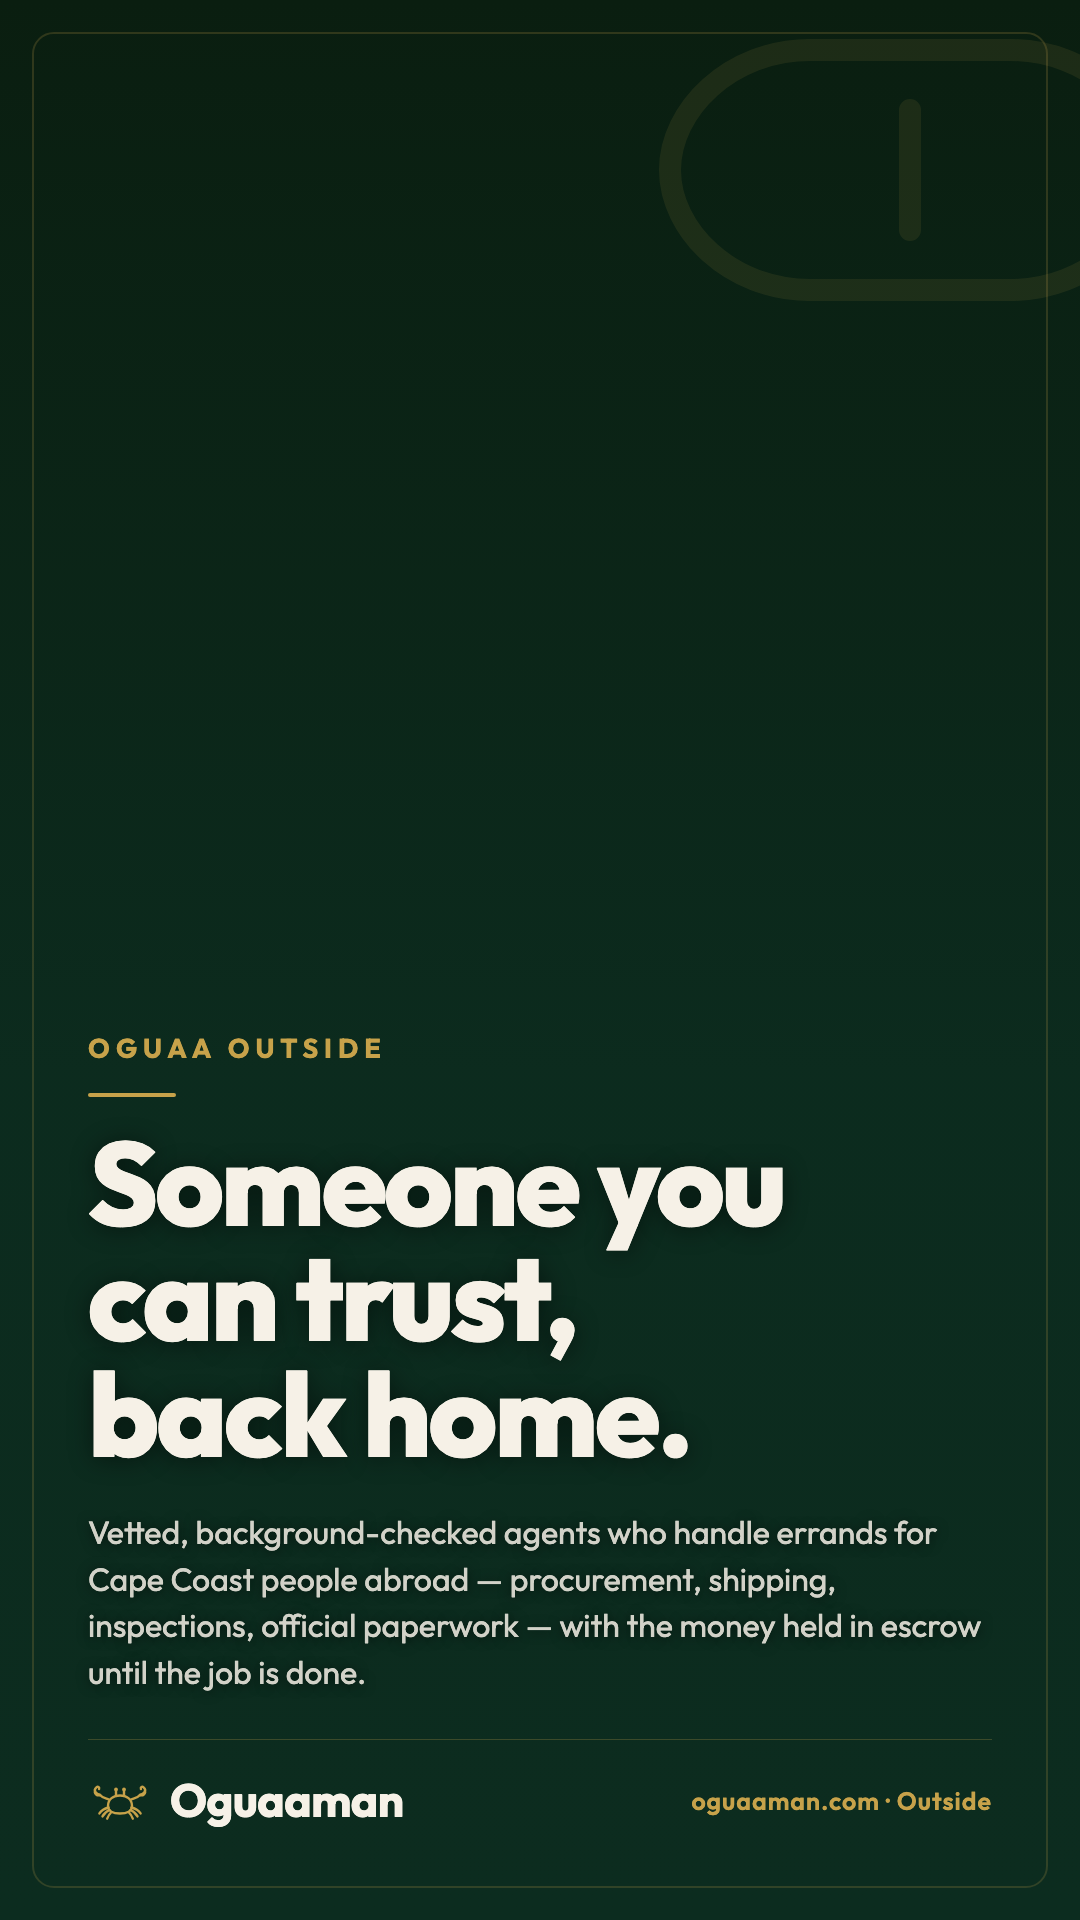
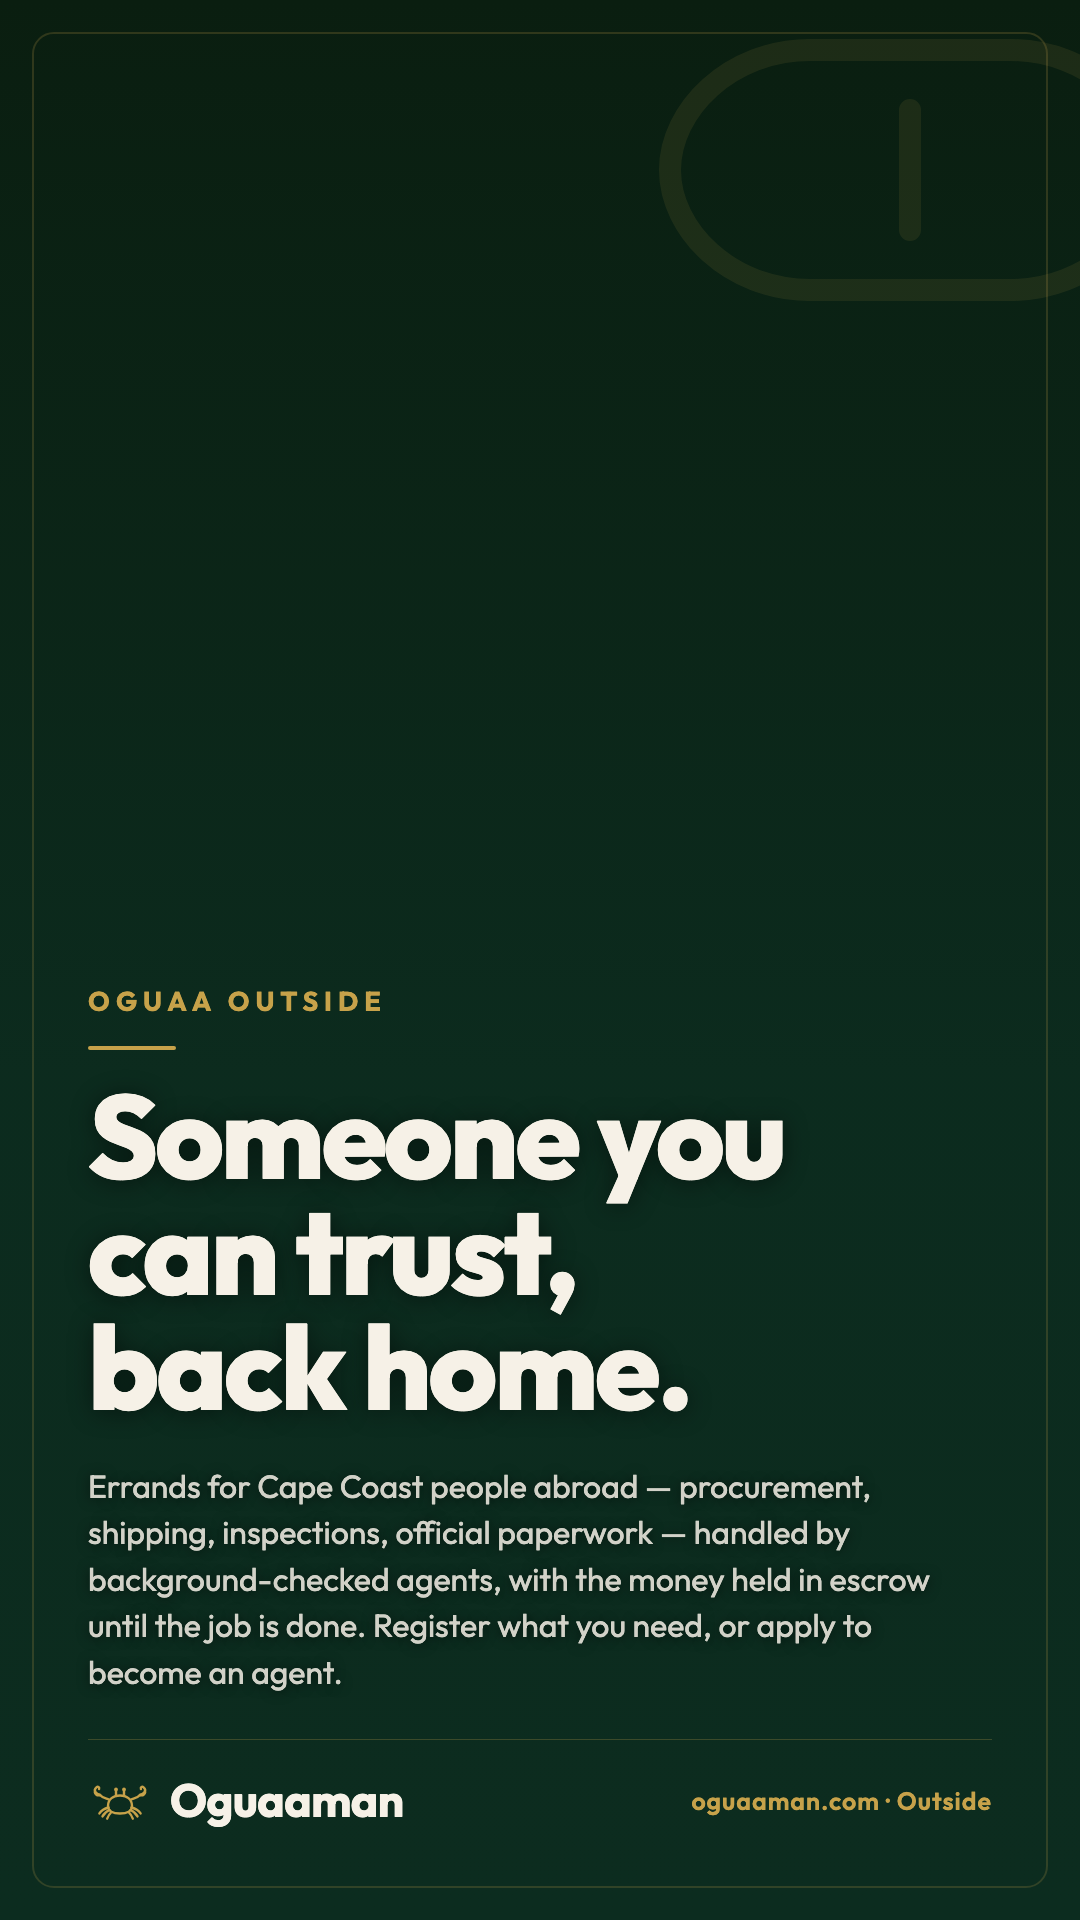
feat(marketing): flyers sell the capability, not a stock list
Ten of the 22 advertised inventory the platform does not yet have. "Every Cape
Coast artist in one place" and "a network of vetted agents" read well, but
/music and /outside are empty — so the flyer earns a click and spends it on a
blank page, which is worse than not posting at all.

Rewritten so each names what the reader can do and asks for the first
contribution: create a profile, list your shop free, open a storefront in
minutes, post a notice, report an incident, create a memorial page, post a
scholarship, propose a project, list a room, apply to become an agent. The
capability is the sell; the emptiness becomes an invitation rather than a
letdown. That also makes the whole set publishable now instead of holding some
back until content arrives.

Which flyers needed it was determined from the live API rather than guessed —
artists, businesses, rentals, opportunities, projects, lost & found, memorials,
agents and incidents are all at zero, while people (21), events (12), festivals
(6), news (7) and institutions (94) are real and can still be showcased
directly.

Checked two ways: every empty-surface flyer must contain no
inventory-implying phrasing and must carry a second-person ask, and all 66
renders re-verified for webfont loading, frame overflow and footer wrapping
after the copy grew.

Changed region(s): [[0.0611, 0.5, 0.9167, 0.875]]

diff --git a/marketing/flyers/generate.py b/marketing/flyers/generate.py
@@ -58,8 +58,8 @@ ADINKRA = {
 FLYERS = [
  dict(key="music", photo="fetu-crowd.jpg", tone=CLAY, motif="sankofa",
       eyebrow="The Oguaa Sound",
-      title="Our artists,\nour sound,\nour stage.",
-      body="Every Cape Coast artist in one place — highlife, gospel, brass and drill. Profiles link straight out to Audiomack, Boomplay, Spotify and YouTube. We send listeners to you; we don't host, and we don't take your streams.",
+      title="Claim your\nplace in the\nOguaa sound.",
+      body="Are you an artist from Cape Coast? Create a free profile — your bio, your genres, your releases — and we point listeners straight to Audiomack, Boomplay, Spotify and YouTube. We send people to you. We don't host your music, and we never touch your streams.",
       cta="oguaaman.com · Music"),
  dict(key="festivals", photo="fetu-procession.jpg", tone=GOLD_DEEP, motif="sankofa",
       eyebrow="The living archive",
@@ -79,27 +79,27 @@ FLYERS = [
  dict(key="business", photo="market-women.jpg", tone=TEAL, motif="funtunfunefu",
       eyebrow="The working city",
       title="Put your shop\non the map\nof Oguaa.",
-      body="A free listing for every Cape Coast business — market traders, seamstresses, mechanics, guesthouses. Add your products, your prices and your WhatsApp, and let the town and the diaspora find you.",
+      body="Every Cape Coast business can list here, free — market traders, seamstresses, mechanics, guesthouses. Add what you sell, your prices and your WhatsApp, and let the town and the diaspora find you. Be one of the first on the map.",
       cta="oguaaman.com · Business"),
  dict(key="storefront", photo="kenkey-fish.jpg", tone=TEAL, motif="funtunfunefu",
       eyebrow="Your own storefront",
       title="A shopfront\nthat never\ncloses.",
-      body="Photos, opening hours, a full product and service catalogue, and reviews from real neighbours. One clean link to share — oguaaman.com/s/your-shop — that works on every phone in town.",
+      body="Open one in minutes: photos, opening hours, a full product and service catalogue, and reviews from real neighbours. One clean link to share — oguaaman.com/s/your-shop — that works on every phone in town, and every item gets its own page on Google.",
       cta="oguaaman.com · Business"),
  dict(key="lostfound", photo="downtown.jpg", tone=TEAL, motif="nkyinkyim",
       eyebrow="Neighbour to neighbour",
-      title="Lost it?\nThe town\nis looking.",
-      body="A live board for missing people, misplaced belongings and found items. Notices publish immediately, because the right neighbour may already have the answer.",
+      title="Lost it?\nPost it.\nNow.",
+      body="Lost something, found something, or looking for someone? Post a notice and it goes live immediately — no waiting for approval — because the right neighbour may already have the answer.",
       cta="oguaaman.com · Lost & Found"),
  dict(key="safety", photo="fosu-lagoon.jpg", tone=MAROON, motif="nkyinkyim",
       eyebrow="Keeping Oguaa safe",
       title="One place\nfor what's\nhappening.",
-      body="Flooding at Fosu. A fire at the market. A road closed at Abura. Report an incident, follow the response, and get alerts from recognised authorities — not rumours from a group chat.",
+      body="Report an incident, follow what happens next, and get alerts from recognised authorities rather than rumours in a group chat. Flooding, fire, a road closed — one place the whole town can rely on.",
       cta="oguaaman.com · Safety"),
  dict(key="memoriam", photo="christ-church.jpg", tone=GOLD_DEEP, motif="gye-nyame",
       eyebrow="Yɛnkae · Let us remember",
       title="A permanent\nhome for\ntheir story.",
-      body="Not a post that scrolls away. A lasting memorial page with photographs, tributes and a candle anyone can light — family-guided, reviewed for dignity, and here for good.",
+      body="Create a lasting page for someone you have lost — photographs, tributes, and a candle anyone can light. Family-guided, reviewed for dignity, and here for good. Not a post that scrolls away.",
       cta="oguaaman.com · In Memoriam"),
  dict(key="diaspora", photo="beach-boats.jpg", tone=GOLD_DEEP, motif="nkyinkyim",
       eyebrow="Abɔkyirfoɔ · The diaspora",
@@ -109,12 +109,12 @@ FLYERS = [
  dict(key="outside", photo="fishing-boats.jpg", tone=GOLD_DEEP, motif="funtunfunefu",
       eyebrow="Oguaa Outside",
       title="Someone you\ncan trust,\nback home.",
-      body="Vetted, background-checked agents who handle errands for Cape Coast people abroad — procurement, shipping, inspections, official paperwork — with the money held in escrow until the job is done.",
+      body="Errands for Cape Coast people abroad — procurement, shipping, inspections, official paperwork — handled by background-checked agents, with the money held in escrow until the job is done. Register what you need, or apply to become an agent.",
       cta="oguaaman.com · Outside"),
  dict(key="youth", photo="outdoor-classroom-ghana.jpg", tone=TEAL, motif="funtunfunefu",
       eyebrow="Training the youth",
-      title="Doors worth\nopening for\nthe young.",
-      body="Scholarships, apprenticeships, internships, training and mentorship — gathered in one board. Information and outbound links only: no private adult-to-minor contact ever runs through Oguaaman.",
+      title="Open a door\nfor someone\nyoung.",
+      body="Running a scholarship, apprenticeship, internship or training place? Post it free and put it in front of the young people of Cape Coast. Information and outbound links only — no private adult-to-minor contact ever runs through Oguaaman.",
       cta="oguaaman.com · Youth"),
  dict(key="events", photo="bakatue.jpg", tone=GOLD_DEEP, motif="adinkrahene",
       eyebrow="Town pulse",
@@ -124,7 +124,7 @@ FLYERS = [
  dict(key="projects", photo="classroom-block-ghana.jpg", tone=GREEN, motif="funtunfunefu",
       eyebrow="Adopt a project",
       title="Fund something\nyou can walk\npast later.",
-      body="Costed, concrete civic improvements — a library corner, a lagoon clean-up, an ICT lab. Every cedi receipted, every project accountable to the people it serves.",
+      body="Propose a costed, concrete improvement for Cape Coast — a library corner, a lagoon clean-up, an ICT lab — and let the town and the diaspora fund it. Every cedi receipted, every project accountable to the people it serves.",
       cta="oguaaman.com · Projects"),
  dict(key="heritage", photo="castle-exterior.jpg", tone=GREEN, motif="sankofa",
       eyebrow="The ancient capital",
@@ -154,7 +154,7 @@ FLYERS = [
  dict(key="rent", photo="castle-courtyard.jpg", tone=GOLD_DEEP, motif="funtunfunefu",
       eyebrow="Rent & Stay",
       title="A room, a house,\na place to\nland.",
-      body="Rooms, family houses and guest stays around Cape Coast — listed by the people who own them, for students, workers and visitors coming home.",
+      body="Letting a room, a house or a guest stay in Cape Coast? List it free for the students, workers and family coming home who are looking right now.",
       cta="oguaaman.com · Rent & Stay"),
  dict(key="news", photo="fetu-flagbearer.jpg", tone=CLAY, motif="adinkrahene",
       eyebrow="The Oguaa Newsroom",

diff --git a/marketing/flyers/README.md b/marketing/flyers/README.md
@@ -54,9 +54,35 @@ from one set, because the three formats are read at very different distances.
 
 ## Before you post
 
-The copy describes features that are **live**, but the site currently has no
-businesses, artists or rentals listed — the fabricated seed examples were
-removed. `business`, `storefront` and `rent` are therefore recruiting posts, not
-showcases: they invite the first traders rather than pointing at existing ones.
-Hold `music` back until a few real artists are on the roster, or it will send
-people to an empty page.
+Every flyer sells a **capability**, not a stock list, so the whole set is safe
+to publish now. Ten of them were rewritten for exactly this reason — the
+platform is new, and a flyer that implies a full directory sends people to an
+empty page and burns the click.
+
+Those ten each name what you can do and ask for the first contribution:
+
+| Flyer | The ask |
+|---|---|
+| `music` | Are you an artist? Create a free profile |
+| `business` | Every Cape Coast business can list here, free |
+| `storefront` | Open one in minutes |
+| `rent` | Letting a room or a house? List it free |
+| `lostfound` | Post a notice — it goes live immediately |
+| `safety` | Report an incident |
+| `memoriam` | Create a lasting page for someone you have lost |
+| `youth` | Running a scholarship or apprenticeship? Post it |
+| `projects` | Propose a costed improvement |
+| `outside` | Register what you need, or apply to become an agent |
+
+The remaining twelve are backed by real content already live: 21 historical
+figures, 12 events, 6 festivals, 7 newsroom pieces, 94 institutions, plus the
+editorial pages (heritage, culture, visit, map, the civic code, diaspora) and
+the general `brand` flyer.
+
+**Suggested order.** Open with `brand`, then alternate a **pride** post
+(festivals, people, heritage, education) with a **recruiting** post (business,
+storefront, music, rent). Pride earns the follow; recruiting fills the platform.
+
+Put any paid promotion behind `business` and `storefront` — traders are what
+the site most needs, and every product a shop lists now gets its own page and
+its own Google entry.
